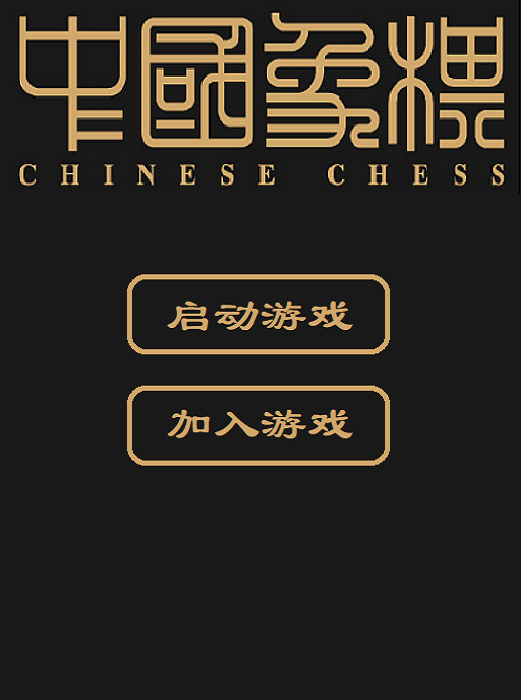
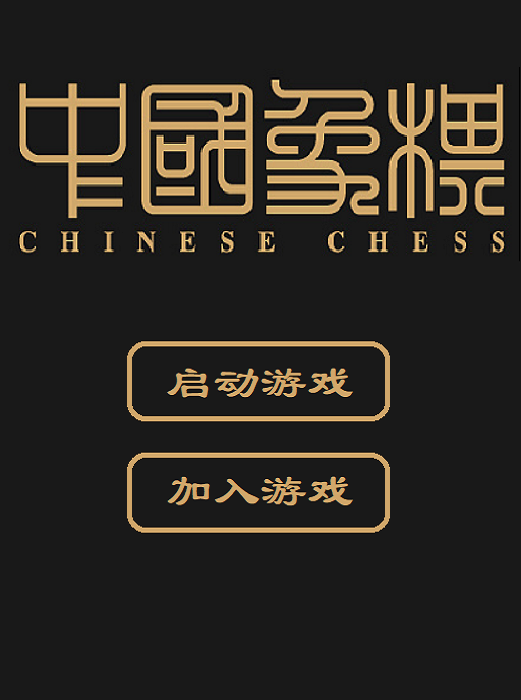
修改

diff --git a/Draw_and_Sound.py b/Draw_and_Sound.py
@@ -142,11 +142,11 @@ class DrawType:
 
         # 背景图片
         self.start_img = pygame.image.load('images/开始界面.png')
-        self.start_button1 = (128, 272)
-        self.start_button2 = (390, 349)
-        self.join_button1 = (126, 389)
-        self.join_button2 = (389, 462)
-        # 按钮’启动游戏‘左上（128，272）右下（390，349），按钮’加入游戏‘左上（126，389）右下（389，462）
+        self.start_button1 = (128, 344)
+        self.start_button2 = (390, 420)
+        self.join_button1 = (126, 454)
+        self.join_button2 = (389, 530)
+        # 按钮’启动游戏‘左上(128, 344) 右下(390, 420) ，按钮’加入游戏‘左上(126, 454）右下(389, 530)
 
         self.wait_img = pygame.image.load('images/等待界面.png')
         self.return_button1 = (165, 313)

diff --git a/Connect_and_Side.py b/Connect_and_Side.py
@@ -100,7 +100,7 @@ class Side(Draw_and_Sound.DrawType):
             # 启动receive线程
             self.receive_thread.start()
 
-    # 与waiting线程绑定的wait函数，用于等待都覅那个连接
+    # 与waiting线程绑定的wait函数，用于等待对方连接
     def waiting(self):
         print('Waiting')
         # 等待客户端连接
